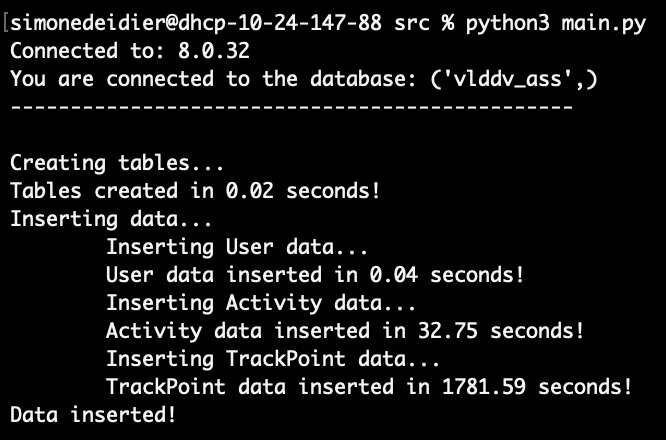
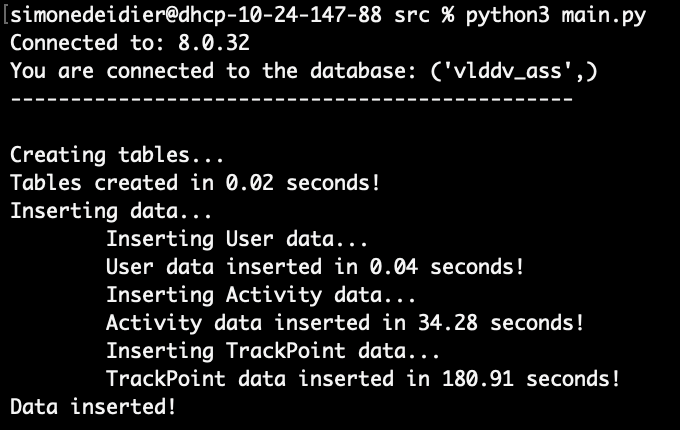
Implemented batch insert

Changed region(s): [[0.0, 0.3326, 0.961, 0.9674], [0.0, 0.0, 0.991, 0.2721]]

diff --git a/assignment 2/src/main.py b/assignment 2/src/main.py
@@ -122,6 +122,7 @@ def main():
     trackpoint_count = db.cursor.fetchone()[0]
 
     if trackpoint_count == 0:
+        batch_size = 1000
         trackpoints = []
 
         for user_id in os.listdir(dataset_folder):
@@ -150,12 +151,19 @@ def main():
                                         altitude = int(float(altitude))
                                         trackpoints.append((activity_id, float(lat), float(lon), altitude, float(date_days), date_time))
                                         
-                                        if trackpoints:
+                                        if len(trackpoints) >= batch_size:
                                             query = """INSERT INTO TrackPoint (activity_id, lat, lon, altitude, date_days, date_time)
                                                 VALUES (%s, %s, %s, %s, %s, %s)"""
                                             db.cursor.executemany(query, trackpoints)
                                             db.db_connection.commit()
                                             trackpoints.clear()
+        
+        if trackpoints:
+            query = """INSERT INTO TrackPoint (activity_id, lat, lon, altitude, date_days, date_time)
+                VALUES (%s, %s, %s, %s, %s, %s)"""
+            db.cursor.executemany(query, trackpoints)
+            db.db_connection.commit()
+            trackpoints.clear()
     end_timing = time.time()
     print(f"\tTrackPoint data inserted in {end_timing - start_timing:.2f} seconds!\nData inserted!")
     
